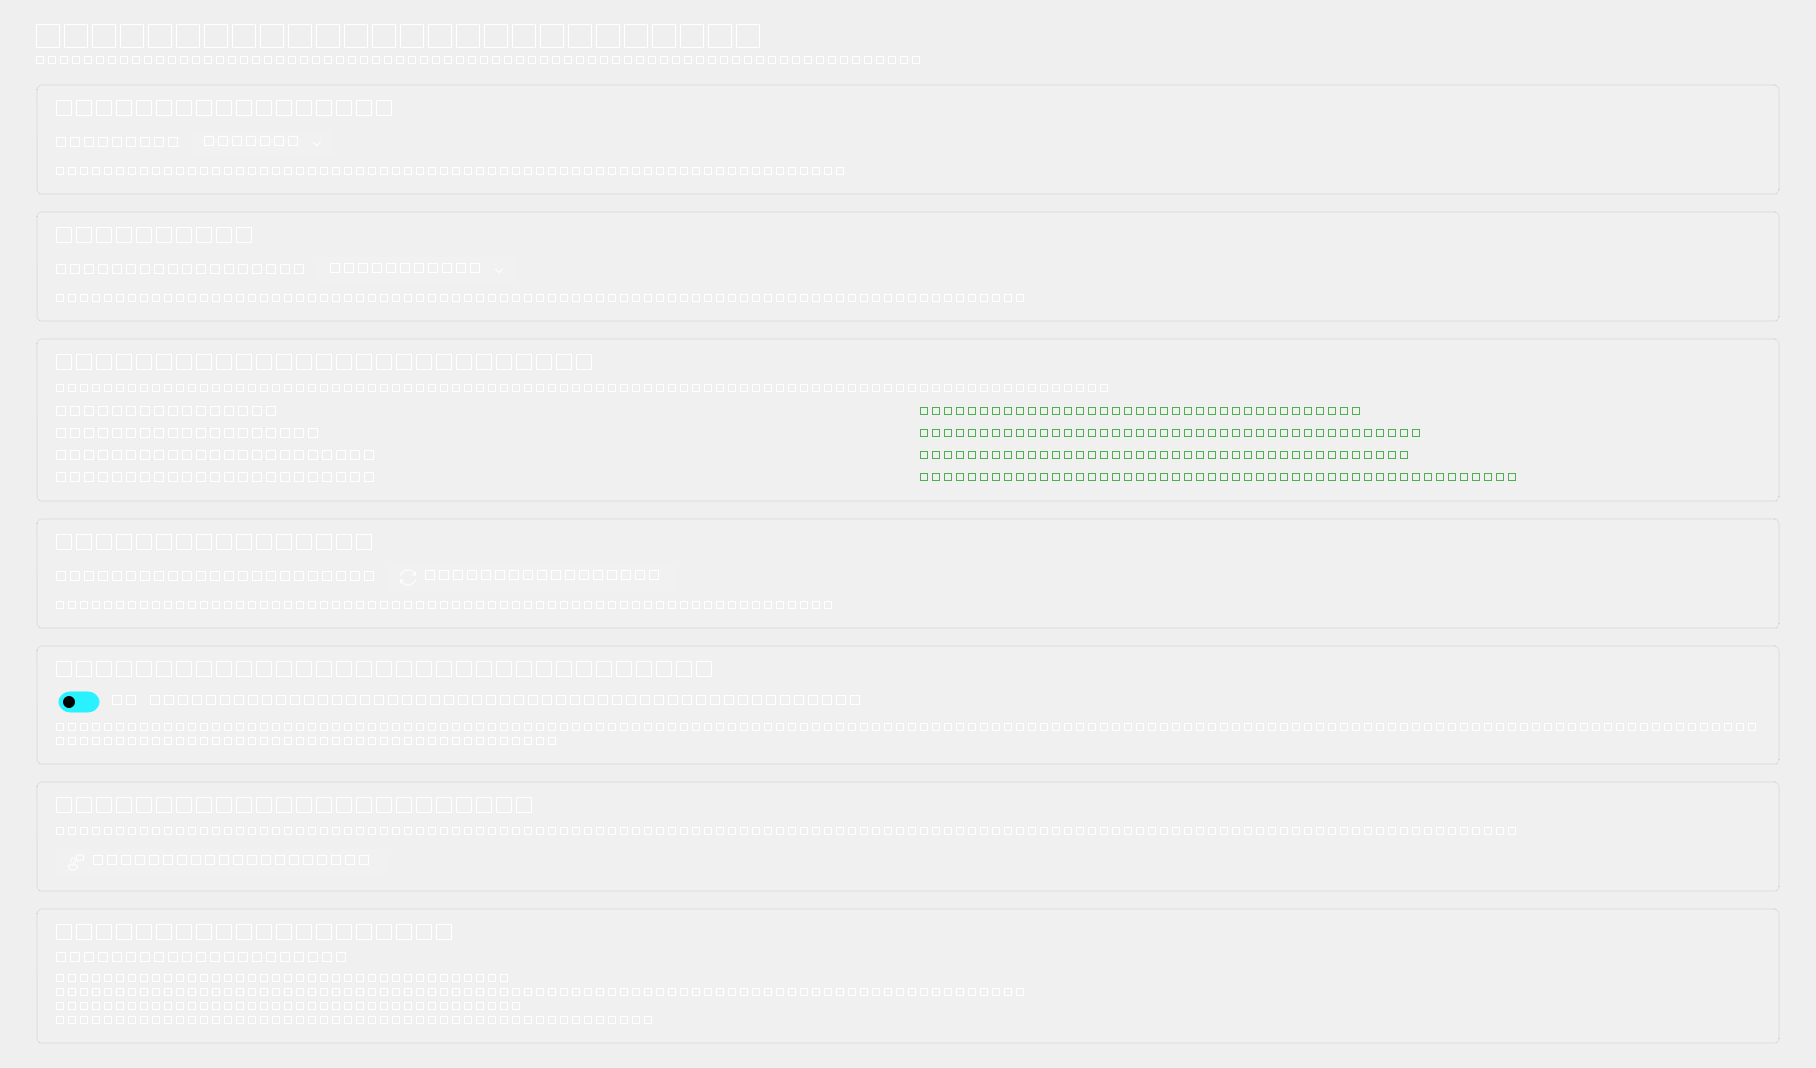
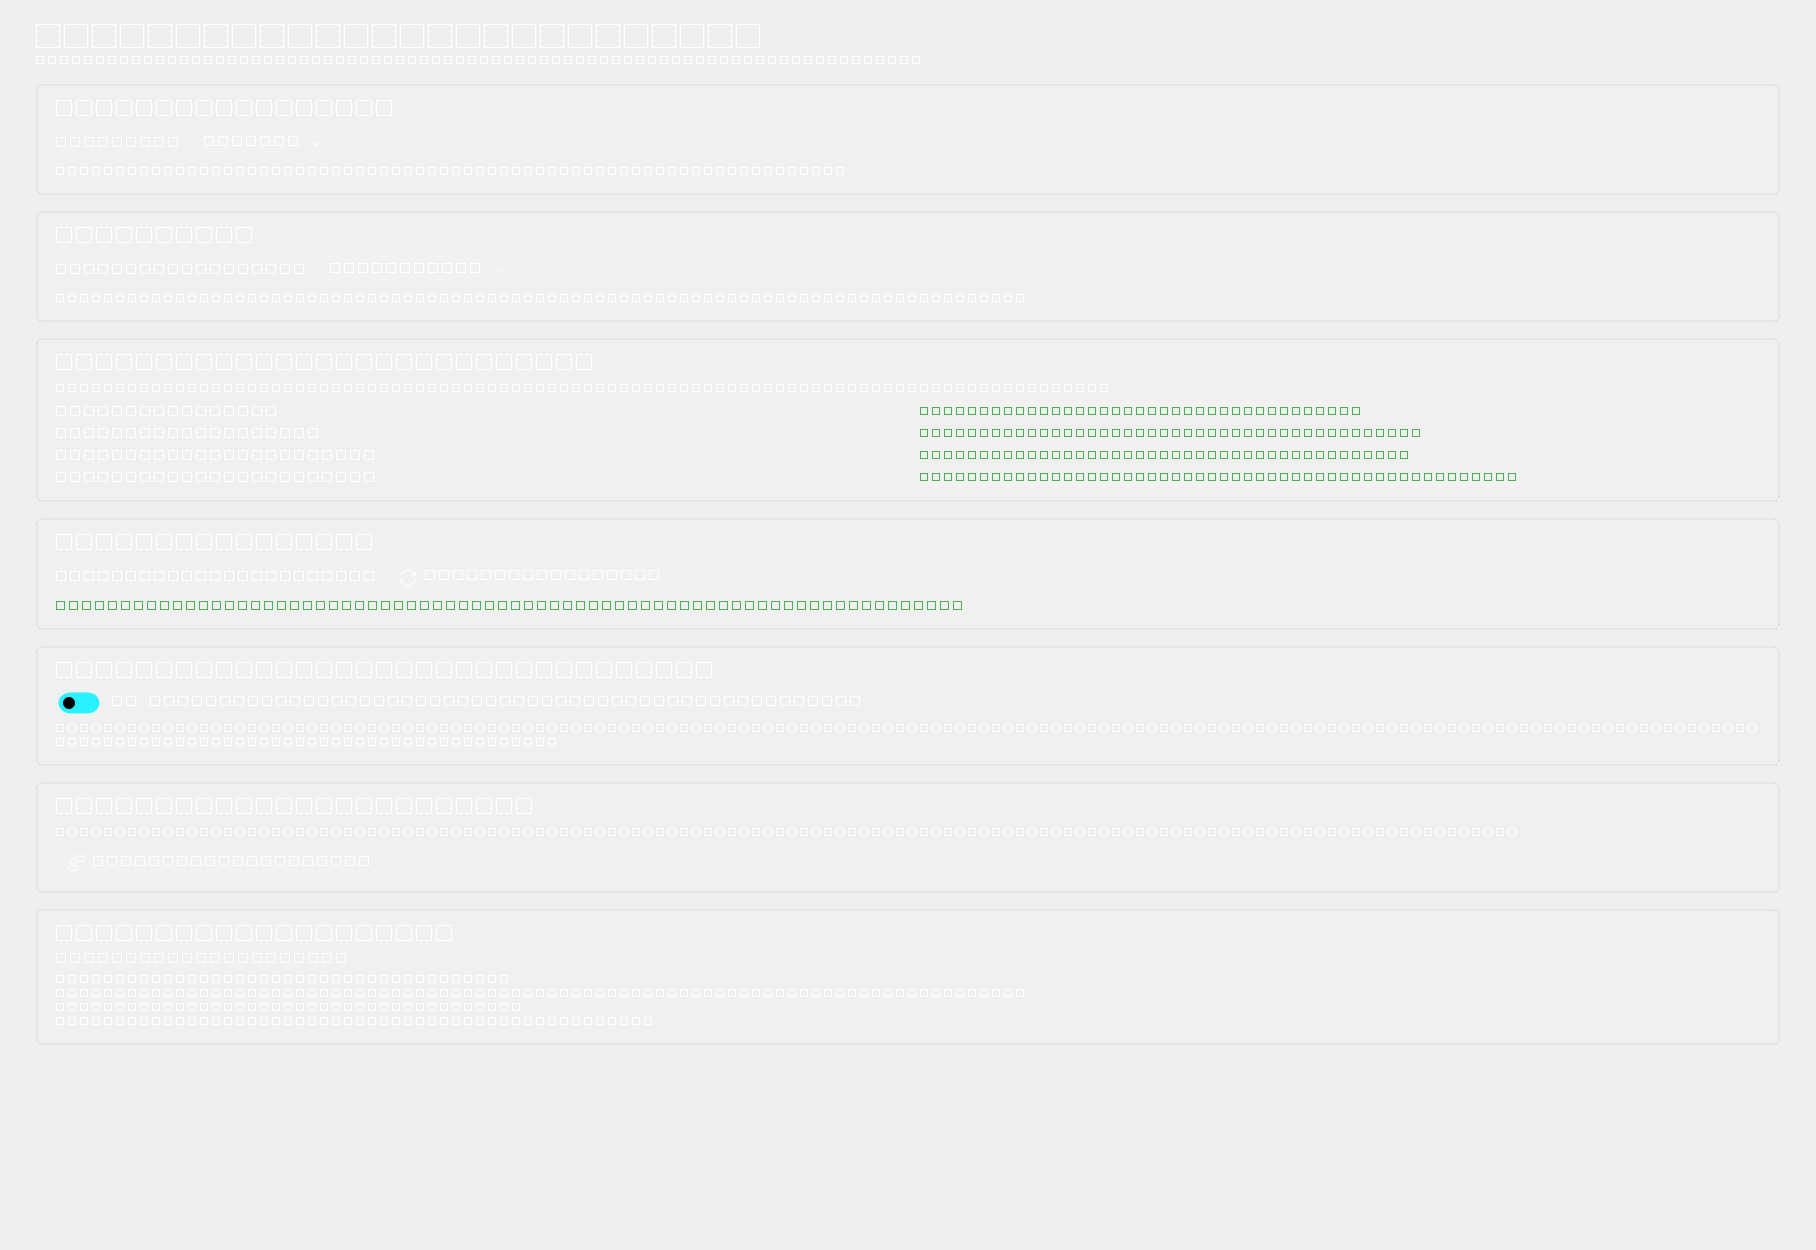
feat(ui): connect feedback dialog to navigation rail, add update/telemetry cards in settings, and update screenshots

diff --git a/raven_app/gui.py b/raven_app/gui.py
@@ -18,6 +18,7 @@ from raven_app.views.inspect_view import InspectView
 from raven_app.views.calibration_view import CalibrationView
 from raven_app.views.doctor_view import DoctorView
 from raven_app.views.settings_view import SettingsView
+from raven_app.views.feedback_dialog import FeedbackDialog
 from raven_app.config import load_config, get_app_root
 from raven_app.i18n import (
     set_language, tr, register_language_listener, unregister_language_listener
@@ -108,6 +109,10 @@ class RavenMainWindow(FluentWindow):
     def _on_language_changed_globally(self, lang_code: str):
         self.retranslate_ui()
 
+    def _open_feedback_dialog(self):
+        dlg = FeedbackDialog(self)
+        dlg.exec()
+
     def retranslate_ui(self):
         """Update window title, navigation rail labels, and child views in real-time."""
         self.setWindowTitle(f"{APP_NAME} • {tr(APP_DESCRIPTION)}")
@@ -143,6 +148,11 @@ class RavenMainWindow(FluentWindow):
         if imu:
             self.workflow_view.imu_topic.setText(imu)
         self.switchTo(self.workflow_view)
+
+    def _open_feedback_dialog(self):
+        from raven_app.views.feedback_dialog import FeedbackDialog
+        dlg = FeedbackDialog(self)
+        dlg.exec()
 
     def _open_viewer(self):
         from raven_app.viewer_window import PointCloudViewerWindow

diff --git a/raven_app/views/feedback_dialog.py b/raven_app/views/feedback_dialog.py
@@ -26,6 +26,14 @@ class FeedbackDialog(MessageBoxBase):
     """Dialog for reporting bugs or suggesting features with diagnostics."""
 
     def __init__(self, parent: Optional[QWidget] = None):
+        if parent is None:
+            from PyQt6.QtWidgets import QApplication
+            parent = QApplication.activeWindow()
+            if parent is None:
+                # Fallback to keep MaskDialogBase from raising AttributeError
+                parent = QWidget()
+                parent.resize(800, 700)
+                self._dummy_parent = parent
         super().__init__(parent)
         self.title_label = SubtitleLabel(self.tr("Send Feedback & Bug Report"), self)
         
